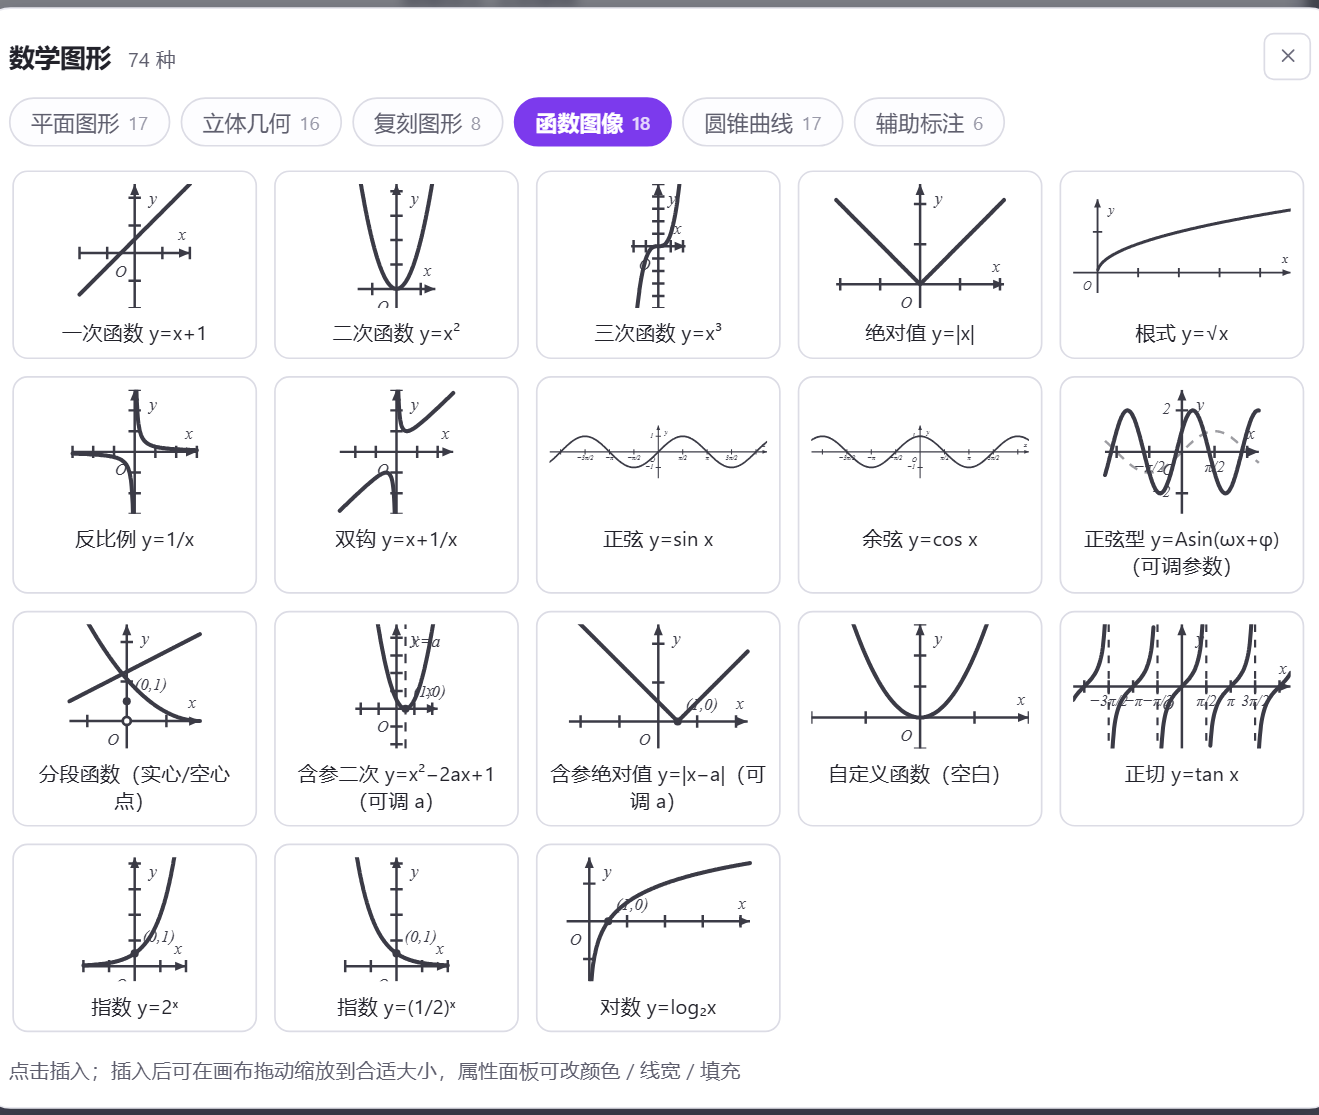
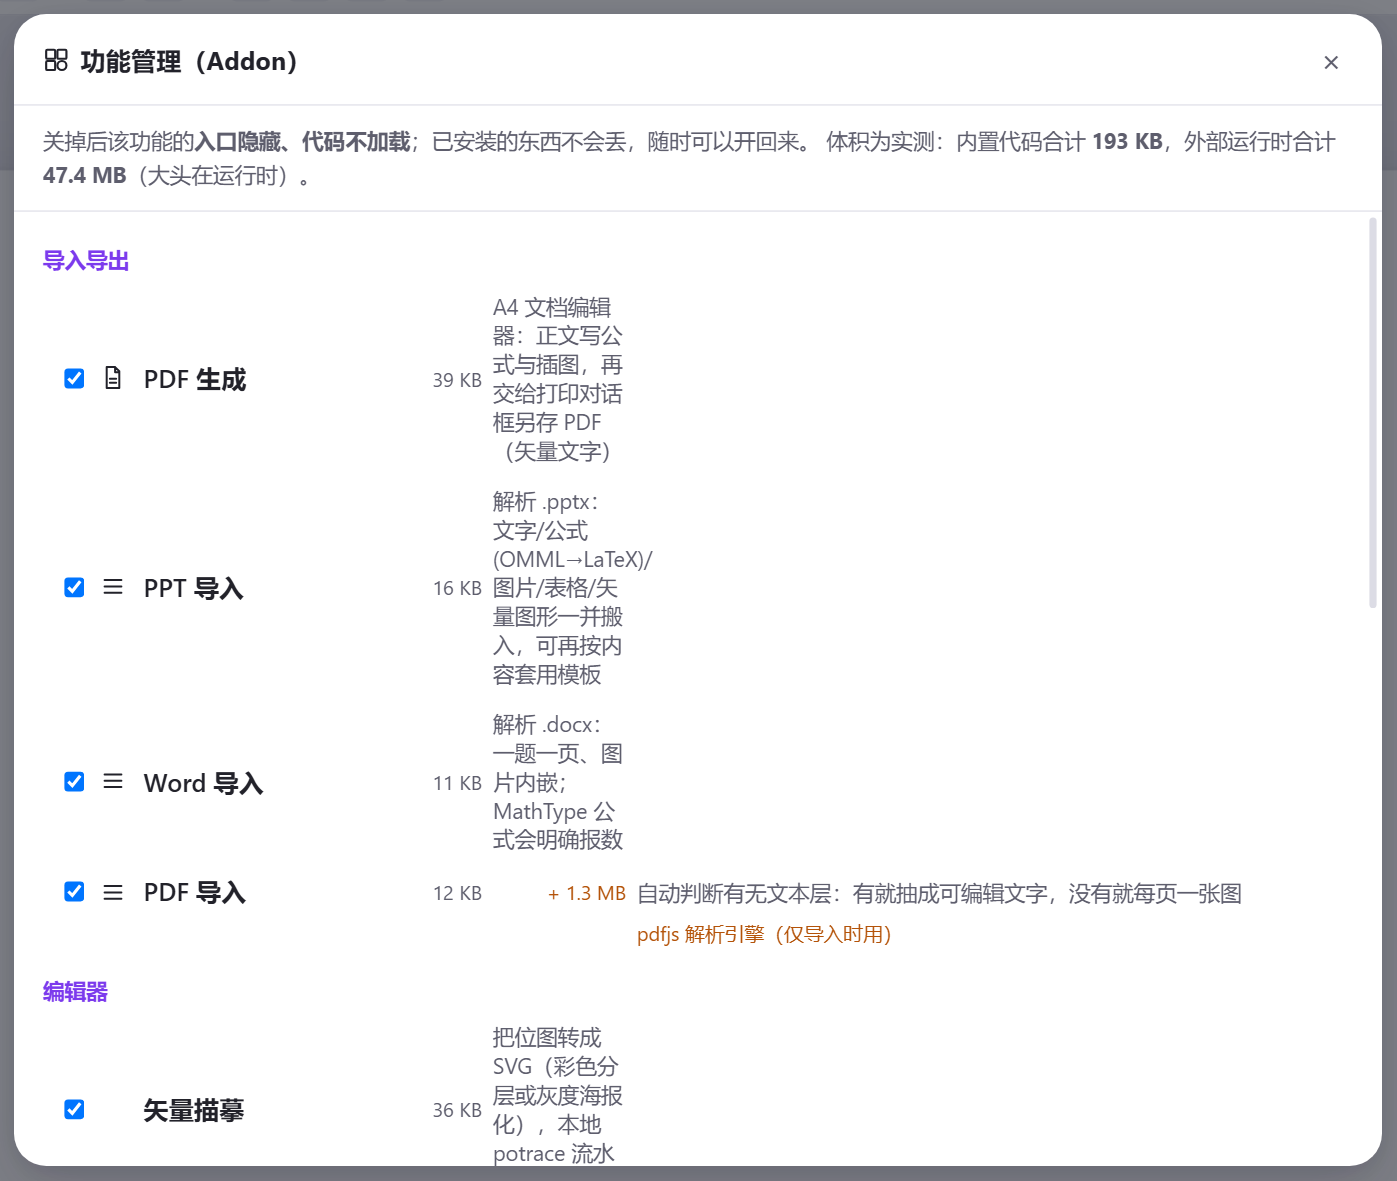
v2026.09.1294: ?shot= 扩到7个模式(present/imageedit/addon)；三张新配图(图片编辑器/放映/精确版解锁面板)，共21张

diff --git a/src/App.vue b/src/App.vue
@@ -1,5 +1,6 @@
 <script setup lang="ts">
 import { addonNotice } from '@/addons/registry'
+import { addonPanelOpen } from '@/ui/addonPanel'
 import { defineAsyncComponent, onBeforeUnmount, onMounted, ref, watch } from 'vue'
 import { useDeckStore } from '@/stores/deck'
 import { captureDesmosState } from '@/composables/useDesmos'
@@ -27,7 +28,7 @@ const AsyExportDialog = defineAsyncComponent(() => import('@/components/AsyExpor
 import { asyExportEl, closeAsyExport } from '@/ui/asyExport'
 import { vectorizeOpen, vectorizeSrc, vectorizeReplaceId, vectorizeEditId, closeVectorize } from '@/ui/vectorize'
 import { geom3dOpen, geom3dEditId } from '@/ui/geom3d'
-import { imageEditOpen, imageEditId, closeImageEditor } from '@/ui/imageEditor'
+import { imageEditOpen, imageEditId, closeImageEditor, openImageEditor } from '@/ui/imageEditor'
 import MarkdownSourcePanel from '@/components/MarkdownSourcePanel.vue'
 import { viewMode } from '@/ui/view'
 import { tplOpen, tplMode, openTemplateLibrary, closeTemplateLibrary } from '@/ui/templateLibrary'
@@ -113,6 +114,12 @@ onMounted(() => {
   else if (want === 'geom3d') openGeom3D()
   else if (want === 'ggb') openGgbSuite()
   else if (want === 'template') openTemplateLibrary('replace')
+  else if (want === 'present') onPresent()
+  else if (want === 'addon') addonPanelOpen.value = true
+  else if (want === 'imageedit') {
+    const im = store.deck.slides.flatMap((s) => s.elements || []).find((e) => e.type === 'image')
+    if (im) openImageEditor(im.id)
+  }
 })
 onBeforeUnmount(() => {
   window.removeEventListener('keydown', onKeydown)

diff --git a/src/components/TopToolbar.vue b/src/components/TopToolbar.vue
@@ -23,6 +23,7 @@ import { ICONS as I } from '@/ui/icons'
 import { pdfImportOpen, pdfImportFile, openPdfImport, closePdfImport } from '@/ui/pdfImport'
 import { addonState, requireAddon } from '@/addons/registry'
 import { openHelp as openHelpDialog } from '@/ui/help'
+import { addonPanelOpen } from '@/ui/addonPanel'
 const AddonManager = defineAsyncComponent(() => import('./AddonManager.vue'))
 // —— 懒加载：三个导入器 + PDF 对话框都只在**点菜单/选文件**时才用 ✓ ——
 //   静态导入会让 pptx(30KB)+docx(30KB)+pdf 全进启动包 ✗；改成动态导入后 Vite 各自分包 ✓
@@ -598,7 +599,7 @@ async function onDsmPicked(e: Event) {
  * 原来是一个个手写 if ✗ —— 结果漏了「绘制/形状」「图片」「嵌入」三个，
  * 表现就是"点开菜单后不选项就没法关掉"。这类漏洞靠"记得补"是治不住的，改成表驱动。
  */
-const addonMgrOpen = ref(false)   // 功能管理面板（addon 开关）
+const addonMgrOpen = addonPanelOpen   // 已提到 @/ui/addonPanel（?shot=addon 等外部入口可直接开）
 const helpMenuOpen = ref(false)   // 帮助菜单
 const helpWrap = ref<HTMLElement | null>(null)
 function toggleHelpMenu() { toggleShown(helpMenuOpen) }

diff --git a/src/help/topics.ts b/src/help/topics.ts
@@ -140,6 +140,7 @@ export const HELP_TOPICS: HelpTopic[] = [
     title: '图片：导入、编辑、描摹成图形',
     tags: ['图片', '裁剪', '蒙版', '描摹', 'svg', '矢量'],
     body: [
+      img('image-editor', '图片编辑器：旋转 / 翻转 / 裁剪 / 滤镜（非破坏性，随时可改）'),
       p('图片有三条常用路径：直接插入、在编辑器里修，或者把线稿**描摹成矢量图形**。'),
       ul(
         '插入：工具栏「图片 ▾」→ 从文件选图；也可直接把图片粘贴进画布。',
@@ -191,6 +192,7 @@ export const HELP_TOPICS: HelpTopic[] = [
     title: '动画与放映',
     tags: ['动画', '渐显', '演示', '放映', '分片'],
     body: [
+      img('present-mode', '放映模式：右下角箭头翻页，Esc 退出'),
       img('md-source', '「MD 源码」分屏：左边 Markdown，右边实时预览'),
       p('讲解型内容建议**逐条出现**：演示时点一下出一条，节奏由你控制。'),
       ul(

diff --git a/src/ui/addonPanel.ts b/src/ui/addonPanel.ts
@@ -1,0 +1,5 @@
+/** 解锁功能（Addon）面板的开关 —— 提到共享 ref ✓ 便于 ?shot=addon 与其它入口直接调用 */
+import { ref } from 'vue'
+export const addonPanelOpen = ref(false)
+export function openAddonPanel() { addonPanelOpen.value = true }
+export function closeAddonPanel() { addonPanelOpen.value = false }

diff --git a/README.md b/README.md
@@ -3,7 +3,7 @@
 与根目录的原版应用**并行开发**，互不干扰。这一步的目标是把架构从「DOM 即模型」
 换成「场景图驱动」，并验证它在 Vue 3 + TypeScript 下跑得通。
 
-> **当前版本：2026.09.1293**（源码快照 `_backup/rollback-*`；dev 端口 `http://127.0.0.1:5173`；演示 exe 在 `lj-mathslides-demo/lj-mathslides.exe`）
+> **当前版本：2026.09.1294**（源码快照 `_backup/rollback-*`；dev 端口 `http://127.0.0.1:5173`；演示 exe 在 `lj-mathslides-demo/lj-mathslides.exe`）
 >
 > 本版要点：公式与混排「只缩小不放大」（大小由字号决定）· 高中数学例题 8 套模板全部改用混排公式 · 「另存为…」可自选目录 · Markdown 的 `$$` 少一个 `$` 不再丢公式、不再跳页。
 >
@@ -431,6 +431,31 @@ label("$A$", (2.399, 2.306));
 
 > 版本号形如 `YYYY.MM.DDNN`（NN = 当天第几次存档）。每个版本在 git 里都有同名标签，
 > 回退用 `git checkout v2026.09.1103`；`_backup/rollback-*` 是目录级源码快照（含 zip）。
+
+### 2026-09-15（v2026.09.1294）
+
+**1294 · 扩 ?shot= 模式到 7 个 + 三张新配图（共 21 张）**
+
+**新增三个模式** ✓（都尽量做到"零风险"）：
+
+    ?shot=present    → 直接调 App.vue 里已有的 onPresent()（presenting 本来就在 App.vue ✓）
+    ?shot=imageedit  → 从 store 里找第一个 image 元素，调共享的 openImageEditor(id) ✓
+    ?shot=addon      → 把 addonMgrOpen 提到新模块 @/ui/addonPanel ✓
+                       **TopToolbar 只改 1 行**（用别名 import ✓ 其余代码一个字没动 ✓）
+
+现在共 **7 个模式**：help · geom3d · ggb · template · present · imageedit · addon
+
+**新配图**：
+
+    image-editor.png  图片编辑器（旋转/翻转/裁剪/滤镜）—— ⚠ 预览区显示「未找到图片地址」✗，
+                      因为样张里那张图没有 src（导入时的占位图）；**编辑器 UI 本身是完整的** ✓
+    present-mode.png  放映模式（第二章 / 2.2 基本不等式 第一课时）✓
+    addon-panel.png   **升级**：这次是 776x656 的精确裁剪 ✓（原来那张是整窗 ✗）
+
+合计 **21 张** ✓，全部已在正文引用 ✓。
+
+**这一批一次成功** ✓ —— 因为不再猜选择器：URL 参数直接决定开哪个面板 ✓。
+这正是加 ?shot= 想要的效果：**把"猜 DOM"换成"说清楚要开哪个面板"** ✓。
 
 ### 2026-09-15（v2026.09.1293）
 
